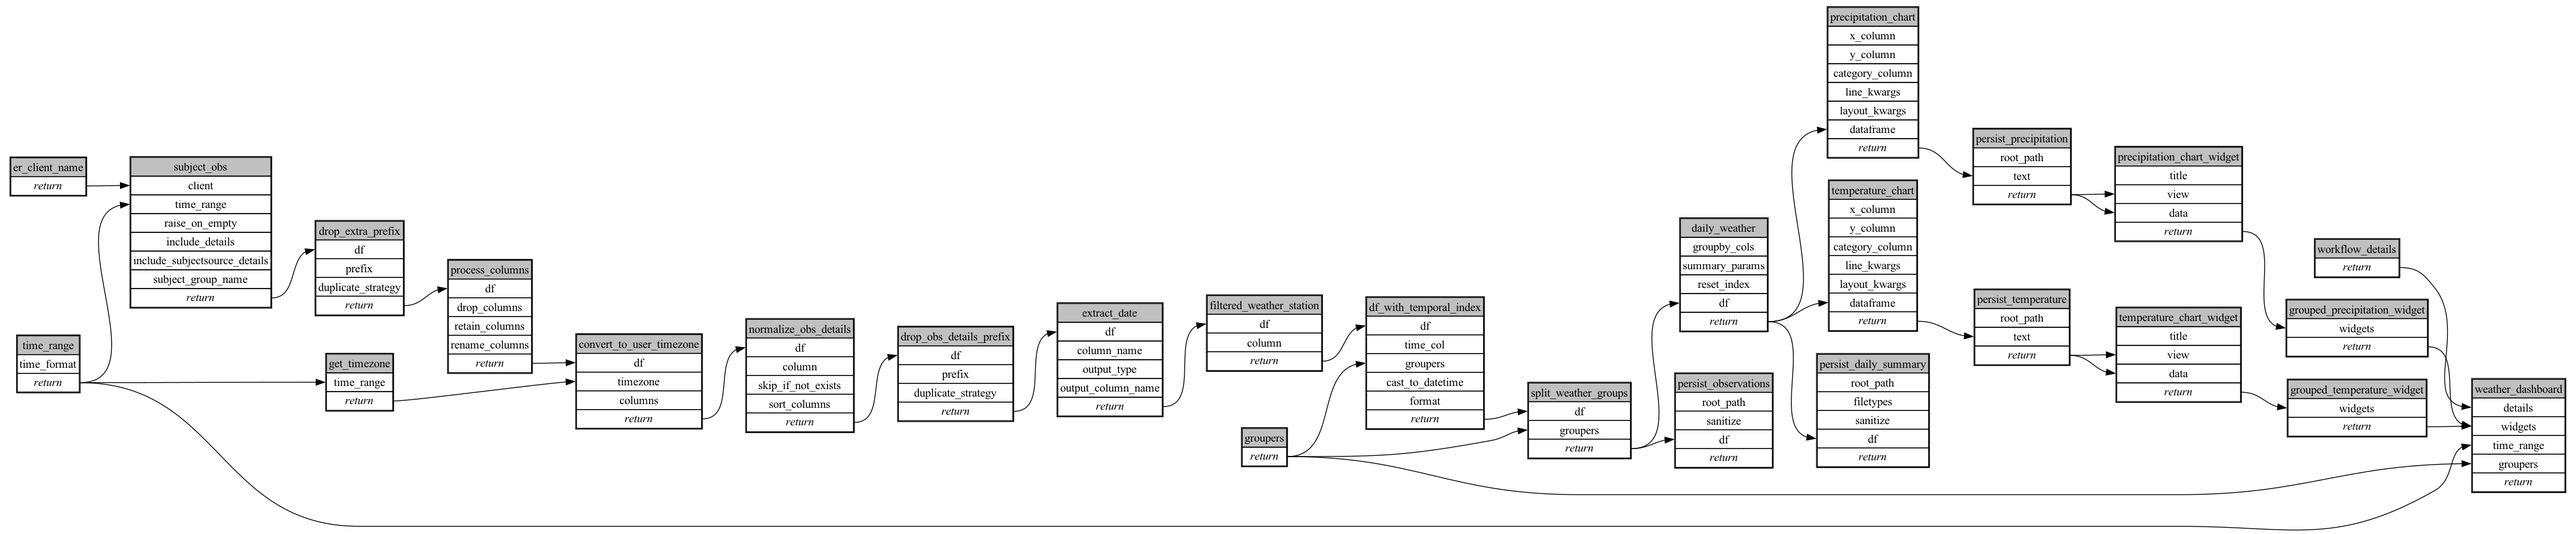
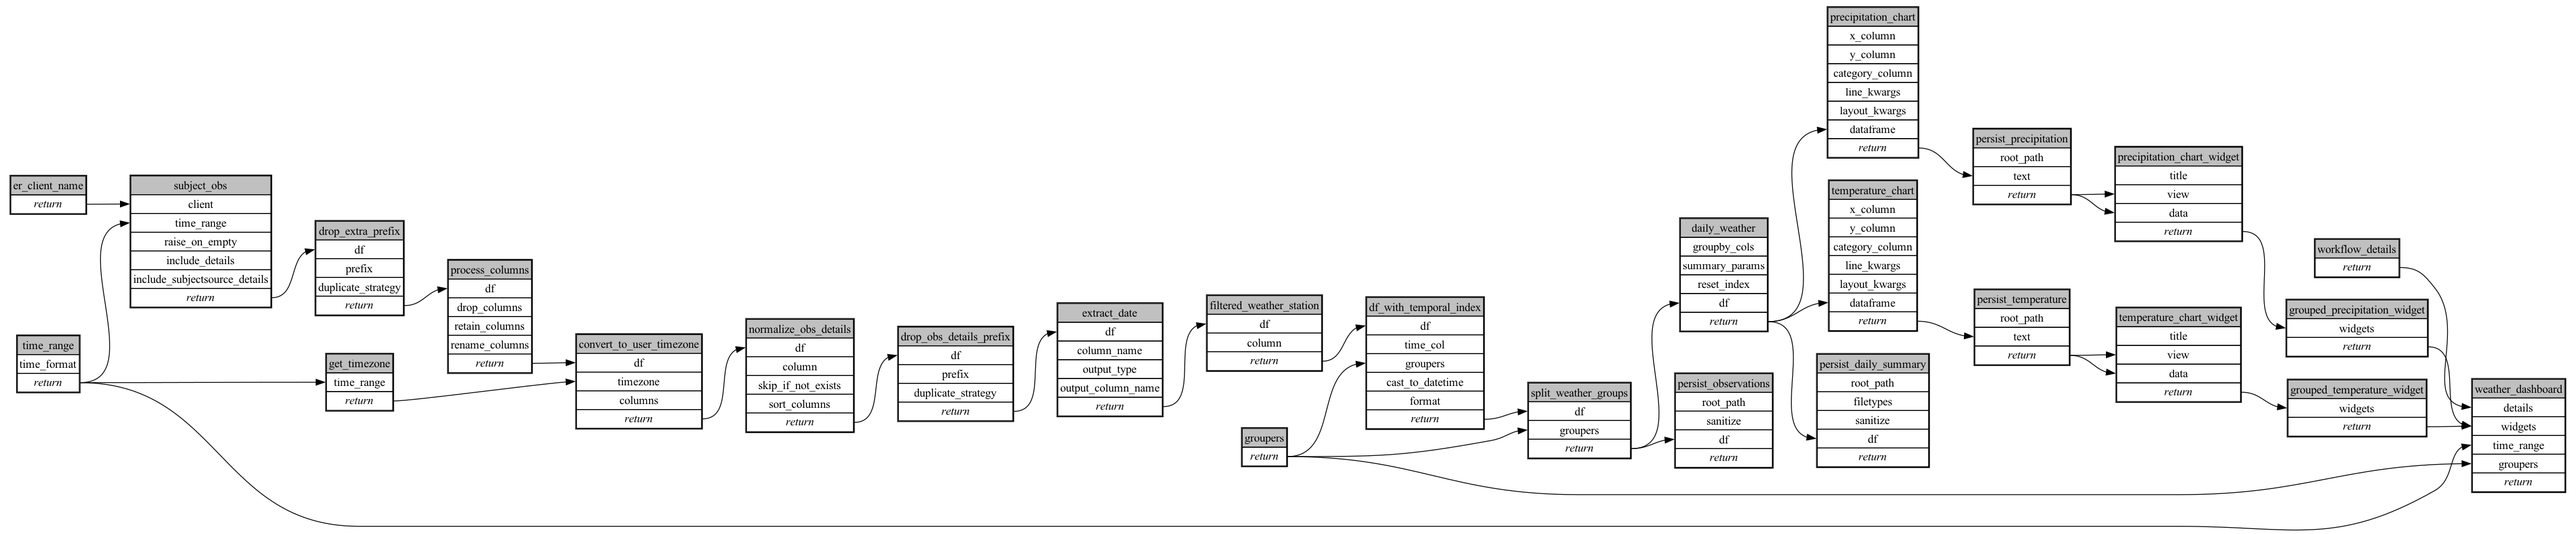
make subjectgroup configurable

Changed region(s): [[0.0, 0.2737, 0.1242, 0.5474]]

diff --git a/ecoscope-workflows-climate-monitoring-workflow/ecoscope_workflows_climate_monitoring_workflow/formdata.py b/ecoscope-workflows-climate-monitoring-workflow/ecoscope_workflows_climate_monitoring_workflow/formdata.py
@@ -18,6 +18,17 @@ class WorkflowDetails(BaseModel):
     description: Optional[str] = Field("", title="Workflow Description")
 
 
+class SubjectObs(BaseModel):
+    model_config = ConfigDict(
+        extra="forbid",
+    )
+    subject_group_name: str = Field(
+        ...,
+        description="⚠ The use of a group with mixed subtypes could lead to unexpected results",
+        title="Subject Group Name",
+    )
+
+
 class FilteredWeatherStation(BaseModel):
     model_config = ConfigDict(
         extra="forbid",
@@ -122,6 +133,9 @@ class FormData(BaseModel):
     )
     er_client_name: Optional[ErClientName] = Field(
         None, title="Select EarthRanger Data Source"
+    )
+    subject_obs: Optional[SubjectObs] = Field(
+        None, title="Get Subject Group Observations from EarthRanger"
     )
     filtered_weather_station: Optional[FilteredWeatherStation] = Field(
         None, title="Select Weather Stations"

diff --git a/ecoscope-workflows-climate-monitoring-workflow/ecoscope_workflows_climate_monitoring_workflow/params.py b/ecoscope-workflows-climate-monitoring-workflow/ecoscope_workflows_climate_monitoring_workflow/params.py
@@ -18,6 +18,17 @@ class WorkflowDetails(BaseModel):
     description: Optional[str] = Field("", title="Workflow Description")
 
 
+class SubjectObs(BaseModel):
+    model_config = ConfigDict(
+        extra="forbid",
+    )
+    subject_group_name: str = Field(
+        ...,
+        description="⚠ The use of a group with mixed subtypes could lead to unexpected results",
+        title="Subject Group Name",
+    )
+
+
 class FilteredWeatherStation(BaseModel):
     model_config = ConfigDict(
         extra="forbid",
@@ -122,6 +133,9 @@ class Params(BaseModel):
     )
     er_client_name: Optional[ErClientName] = Field(
         None, title="Select EarthRanger Data Source"
+    )
+    subject_obs: Optional[SubjectObs] = Field(
+        None, title="Get Subject Group Observations from EarthRanger"
     )
     filtered_weather_station: Optional[FilteredWeatherStation] = Field(
         None, title="Select Weather Stations"

diff --git a/ecoscope-workflows-climate-monitoring-workflow/ecoscope_workflows_climate_monitoring_workflow/dags/jupytext.py b/ecoscope-workflows-climate-monitoring-workflow/ecoscope_workflows_climate_monitoring_workflow/dags/jupytext.py
@@ -160,7 +160,9 @@ er_client_name = (
 # %%
 # parameters
 
-subject_obs_params = dict()
+subject_obs_params = dict(
+    subject_group_name=...,
+)
 
 # %%
 # call the task
@@ -176,7 +178,6 @@ subject_obs = (
         raise_on_empty=True,
         include_details=True,
         include_subjectsource_details=True,
-        subject_group_name="Subjects",
         **subject_obs_params,
     )
     .call()

diff --git a/ecoscope-workflows-climate-monitoring-workflow/ecoscope_workflows_climate_monitoring_workflow/dags/run_async.py b/ecoscope-workflows-climate-monitoring-workflow/ecoscope_workflows_climate_monitoring_workflow/dags/run_async.py
@@ -148,7 +148,6 @@ def main(params: Params):
                 "raise_on_empty": True,
                 "include_details": True,
                 "include_subjectsource_details": True,
-                "subject_group_name": "Subjects",
             }
             | (params_dict.get("subject_obs") or {}),
             method="call",

diff --git a/ecoscope-workflows-climate-monitoring-workflow/ecoscope_workflows_climate_monitoring_workflow/dags/run_async_mock_io.py b/ecoscope-workflows-climate-monitoring-workflow/ecoscope_workflows_climate_monitoring_workflow/dags/run_async_mock_io.py
@@ -162,7 +162,6 @@ def main(params: Params):
                 "raise_on_empty": True,
                 "include_details": True,
                 "include_subjectsource_details": True,
-                "subject_group_name": "Subjects",
             }
             | (params_dict.get("subject_obs") or {}),
             method="call",

diff --git a/ecoscope-workflows-climate-monitoring-workflow/ecoscope_workflows_climate_monitoring_workflow/dags/run_sequential.py b/ecoscope-workflows-climate-monitoring-workflow/ecoscope_workflows_climate_monitoring_workflow/dags/run_sequential.py
@@ -105,7 +105,6 @@ def main(params: Params):
             raise_on_empty=True,
             include_details=True,
             include_subjectsource_details=True,
-            subject_group_name="Subjects",
             **(params_dict.get("subject_obs") or {}),
         )
         .call()

diff --git a/ecoscope-workflows-climate-monitoring-workflow/ecoscope_workflows_climate_monitoring_workflow/dags/run_sequential_mock_io.py b/ecoscope-workflows-climate-monitoring-workflow/ecoscope_workflows_climate_monitoring_workflow/dags/run_sequential_mock_io.py
@@ -119,7 +119,6 @@ def main(params: Params):
             raise_on_empty=True,
             include_details=True,
             include_subjectsource_details=True,
-            subject_group_name="Subjects",
             **(params_dict.get("subject_obs") or {}),
         )
         .call()

diff --git a/ecoscope-workflows-climate-monitoring-workflow/README.md b/ecoscope-workflows-climate-monitoring-workflow/README.md
@@ -5,8 +5,8 @@
 
 ```yaml
 # fingerprint:
-artifacts_sha256_basic: 116583cfc2093ae40a6259c3b4920c2887f3a919b882370593dc4f27e5da1828
-artifacts_sha256_strict: 6ed2a7ed23babed669345ac0567b9245bd977408d09252e6e97b90aaa70734e6
+artifacts_sha256_basic: 0bd78aded62f110c52adfd32f9b8cae18a7ace8447cf84e201bc2c012402f163
+artifacts_sha256_strict: 44ba1b2fd8275eec445c87012cc1225dc4fb2285e29ec9f898d173b73ee3b00c
 installed_requirements:
 - channel: https://repo.prefix.dev/ecoscope-workflows/
   name: ecoscope-workflows-core
@@ -17,8 +17,8 @@ installed_requirements:
 - channel: https://repo.prefix.dev/ecoscope-workflows-custom/
   name: ecoscope-workflows-ext-custom
   version: {version: ==0.0.14.dev0+g3f451d57d.d20260110}
-params_sha256: 3494a5742c7ed0134c9d9be480b84d9739bb2cac427174b1040a0406e091388e
-spec_sha256: e4e102d60d5cad65c863737dd73093f20cd76dc18d83a7e5e7c55a12f4593fee
+params_sha256: e01cfe1510935badc1049cbeec20733c4fdc055257a21069d32af6c163b85c3f
+spec_sha256: 5e92af5e56d2f349909f1347afb9ba3582262c4c00ca669d144c62b35054d31a
 
 ```
 
